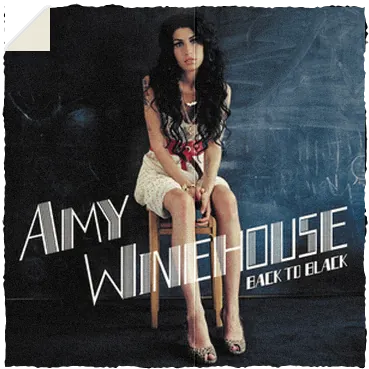
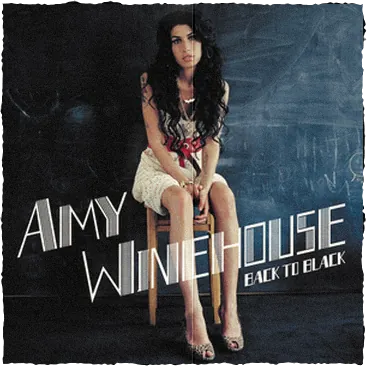
style: Drop the peeled corners from the stickers
Covers keep their ragged edges, faded print and creases, but no corner
folds back anymore.

diff --git a/src/lib/site.ts b/src/lib/site.ts
@@ -253,31 +253,31 @@ export const favorites: Favorite[] = [
 ];
 
 export const stickers: Sticker[] = [
-	{ name: 'grim fandango', url: buildWikipediaURL('Grim Fandango'), imageURL: '/images/stickers/grim-fandango.webp', width: 277, height: 370 },
+	{ name: 'grim fandango', url: buildWikipediaURL('Grim Fandango'), imageURL: '/images/stickers/grim-fandango.webp', width: 275, height: 365 },
 	{ name: 'futurama', url: buildWikipediaURL('Futurama'), imageURL: '/images/stickers/futurama.webp', width: 431, height: 151, isDieCut: true },
-	{ name: 'pulp fiction', url: buildWikipediaURL('Pulp Fiction'), imageURL: '/images/stickers/pulp-fiction.webp', width: 251, height: 369 },
-	{ name: 'abbey road', url: buildWikipediaURL('Abbey Road'), imageURL: '/images/stickers/abbey-road.webp', width: 367, height: 370 },
+	{ name: 'pulp fiction', url: buildWikipediaURL('Pulp Fiction'), imageURL: '/images/stickers/pulp-fiction.webp', width: 249, height: 365 },
+	{ name: 'abbey road', url: buildWikipediaURL('Abbey Road'), imageURL: '/images/stickers/abbey-road.webp', width: 365, height: 365 },
 	{ name: 'mr. robot', url: buildWikipediaURL('Mr. Robot'), imageURL: '/images/stickers/mr-robot.webp', width: 420, height: 86, isDieCut: true },
 	{ name: 'the catcher in the rye', url: buildWikipediaURL('The Catcher in the Rye'), imageURL: '/images/stickers/the-catcher-in-the-rye.webp', width: 315, height: 366 },
 	{ name: 'the curse of monkey island', url: buildWikipediaURL('The Curse of Monkey Island'), imageURL: '/images/stickers/curse-of-monkey-island.webp', width: 275, height: 366 },
-	{ name: 'parasite', url: buildWikipediaURL('Parasite (2019 film)'), imageURL: '/images/stickers/parasite.webp', width: 262, height: 368 },
+	{ name: 'parasite', url: buildWikipediaURL('Parasite (2019 film)'), imageURL: '/images/stickers/parasite.webp', width: 257, height: 365 },
 	{ name: 'the simpsons', url: buildWikipediaURL('The Simpsons'), imageURL: '/images/stickers/the-simpsons.webp', width: 440, height: 206, isDieCut: true },
-	{ name: 'back to black', url: buildWikipediaURL('Back to Black'), imageURL: '/images/stickers/back-to-black.webp', width: 369, height: 369 },
-	{ name: 'exapunks', url: buildWikipediaURL('Exapunks'), imageURL: '/images/stickers/exapunks.webp', width: 369, height: 176 },
-	{ name: 'whiplash', url: buildWikipediaURL('Whiplash (2014 film)'), imageURL: '/images/stickers/whiplash.webp', width: 253, height: 368 },
+	{ name: 'back to black', url: buildWikipediaURL('Back to Black'), imageURL: '/images/stickers/back-to-black.webp', width: 367, height: 366 },
+	{ name: 'exapunks', url: buildWikipediaURL('Exapunks'), imageURL: '/images/stickers/exapunks.webp', width: 365, height: 173 },
+	{ name: 'whiplash', url: buildWikipediaURL('Whiplash (2014 film)'), imageURL: '/images/stickers/whiplash.webp', width: 249, height: 366 },
 	{ name: 'friends', url: buildWikipediaURL('Friends'), imageURL: '/images/stickers/friends.webp', width: 440, height: 91, isDieCut: true },
 	{ name: 'i love katamari', url: buildWikipediaURL('I Love Katamari'), imageURL: '/images/stickers/i-love-katamari.webp', width: 274, height: 408, isDieCut: true },
 	{ name: 'burning', url: buildWikipediaURL('Burning (2018 film)'), imageURL: '/images/stickers/burning.webp', width: 257, height: 365 },
 	{ name: 'rick and morty', url: buildWikipediaURL('Rick and Morty'), imageURL: '/images/stickers/rick-and-morty.webp', width: 440, height: 151, isDieCut: true },
 	{ name: 'la vie devant soi', url: buildWikipediaURL('The Life Before Us'), imageURL: '/images/stickers/the-life-before-us.webp', width: 255, height: 365 },
 	{ name: 'thimbleweed park', url: buildWikipediaURL('Thimbleweed Park'), imageURL: '/images/stickers/thimbleweed-park.webp', width: 306, height: 365 },
-	{ name: 'face/off', url: buildWikipediaURL('Face/Off'), imageURL: '/images/stickers/face-off.webp', width: 251, height: 369 },
-	{ name: 'evangelion', url: buildWikipediaURL('Neon Genesis Evangelion'), imageURL: '/images/stickers/evangelion.webp', width: 368, height: 142 },
+	{ name: 'face/off', url: buildWikipediaURL('Face/Off'), imageURL: '/images/stickers/face-off.webp', width: 247, height: 366 },
+	{ name: 'evangelion', url: buildWikipediaURL('Neon Genesis Evangelion'), imageURL: '/images/stickers/evangelion.webp', width: 366, height: 138 },
 	{ name: 'juno', url: buildWikipediaURL('Juno (Remi Wolf album)'), imageURL: '/images/stickers/juno.webp', width: 367, height: 367 },
 	{ name: "bob's burgers", url: buildWikipediaURL("Bob's Burgers"), imageURL: '/images/stickers/bobs-burgers.webp', width: 443, height: 156, isDieCut: true },
-	{ name: 'my mister', url: buildWikipediaURL('My Mister'), imageURL: '/images/stickers/my-mister.webp', width: 370, height: 255 },
+	{ name: 'my mister', url: buildWikipediaURL('My Mister'), imageURL: '/images/stickers/my-mister.webp', width: 366, height: 253 },
 	{ name: 'sonic adventure', url: buildWikipediaURL('Sonic Adventure'), imageURL: '/images/stickers/sonic-adventure.webp', width: 366, height: 361 },
-	{ name: 'garden state', url: buildWikipediaURL('Garden State (film)'), imageURL: '/images/stickers/garden-state.webp', width: 253, height: 368 },
+	{ name: 'garden state', url: buildWikipediaURL('Garden State (film)'), imageURL: '/images/stickers/garden-state.webp', width: 249, height: 366 },
 	{ name: 'the office', url: buildWikipediaURL('The Office (American TV series)'), imageURL: '/images/stickers/the-office.webp', width: 441, height: 90, isDieCut: true },
 	{ name: 'ftl', url: buildWikipediaURL('FTL: Faster Than Light'), imageURL: '/images/stickers/ftl.webp', width: 366, height: 123 },
 	{ name: 'matchstick men', url: buildWikipediaURL('Matchstick Men'), imageURL: '/images/stickers/matchstick-men.webp', width: 247, height: 364 },
